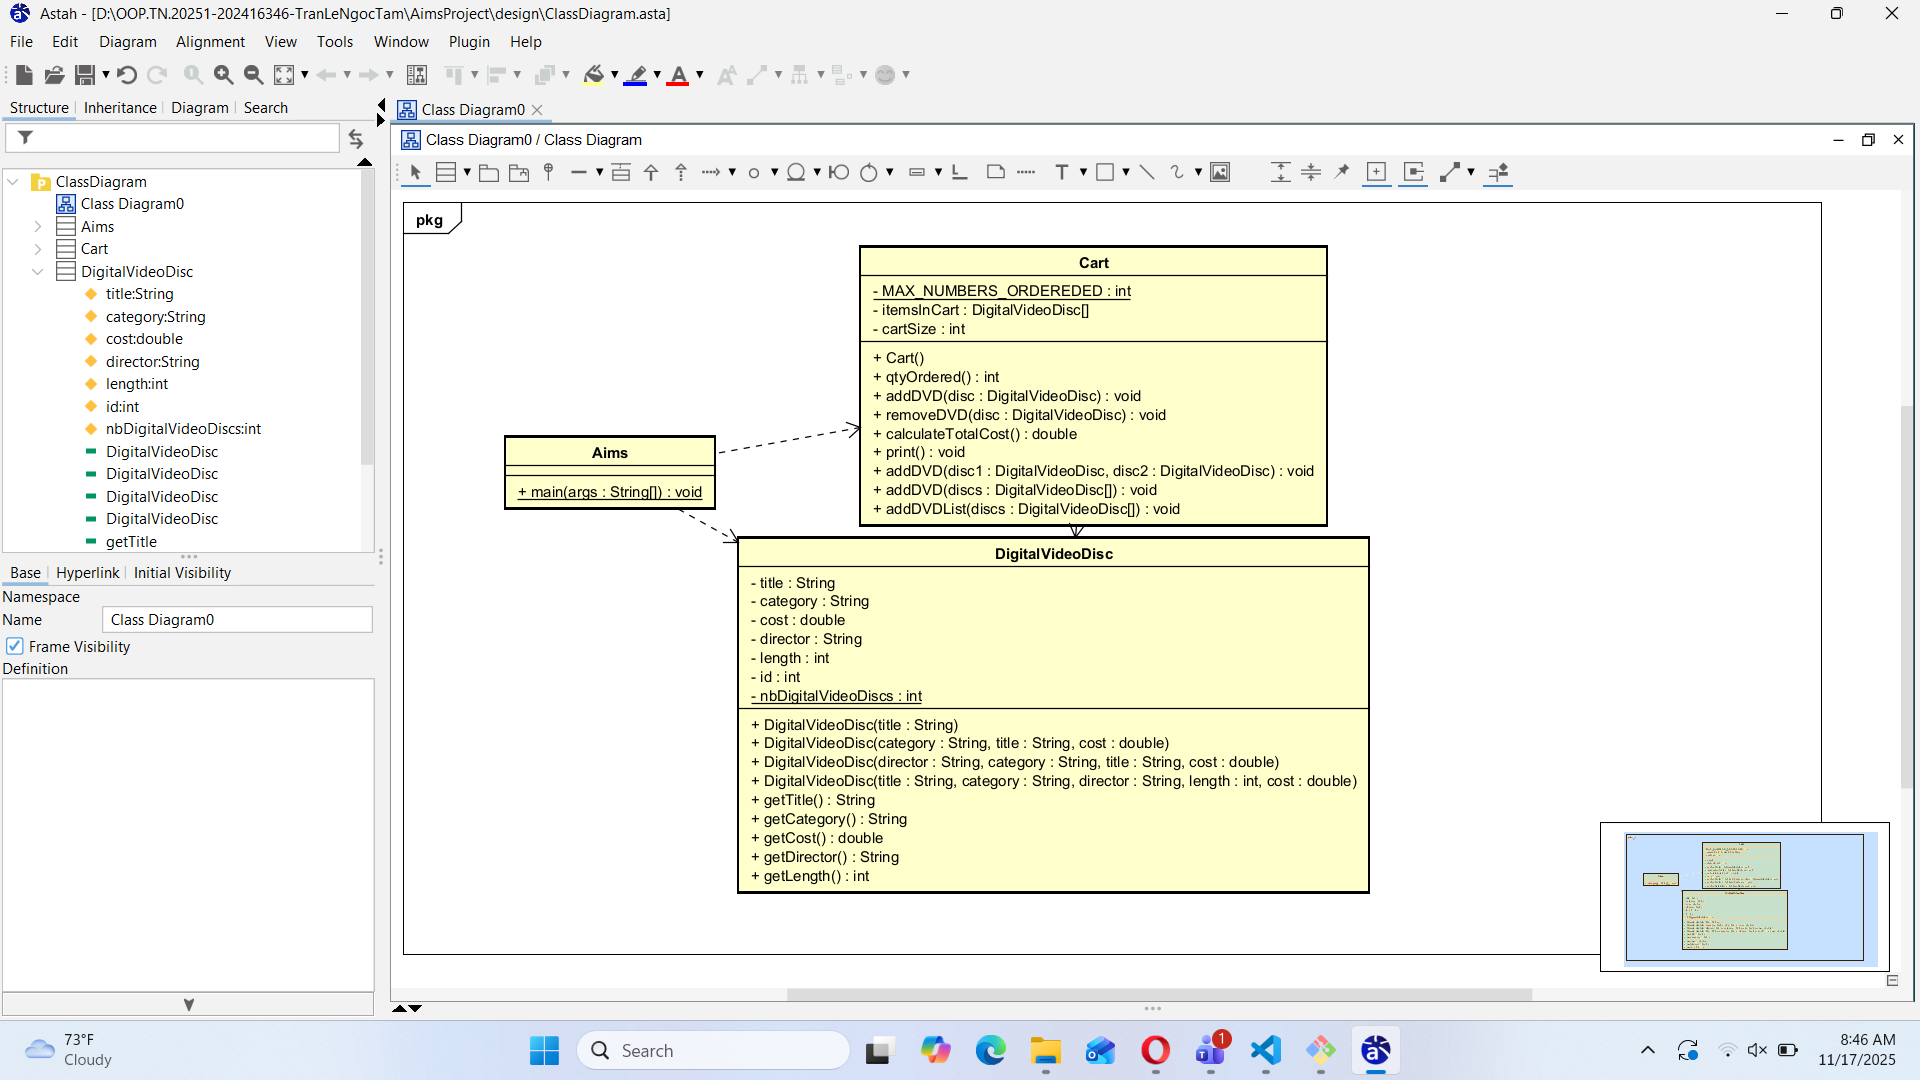
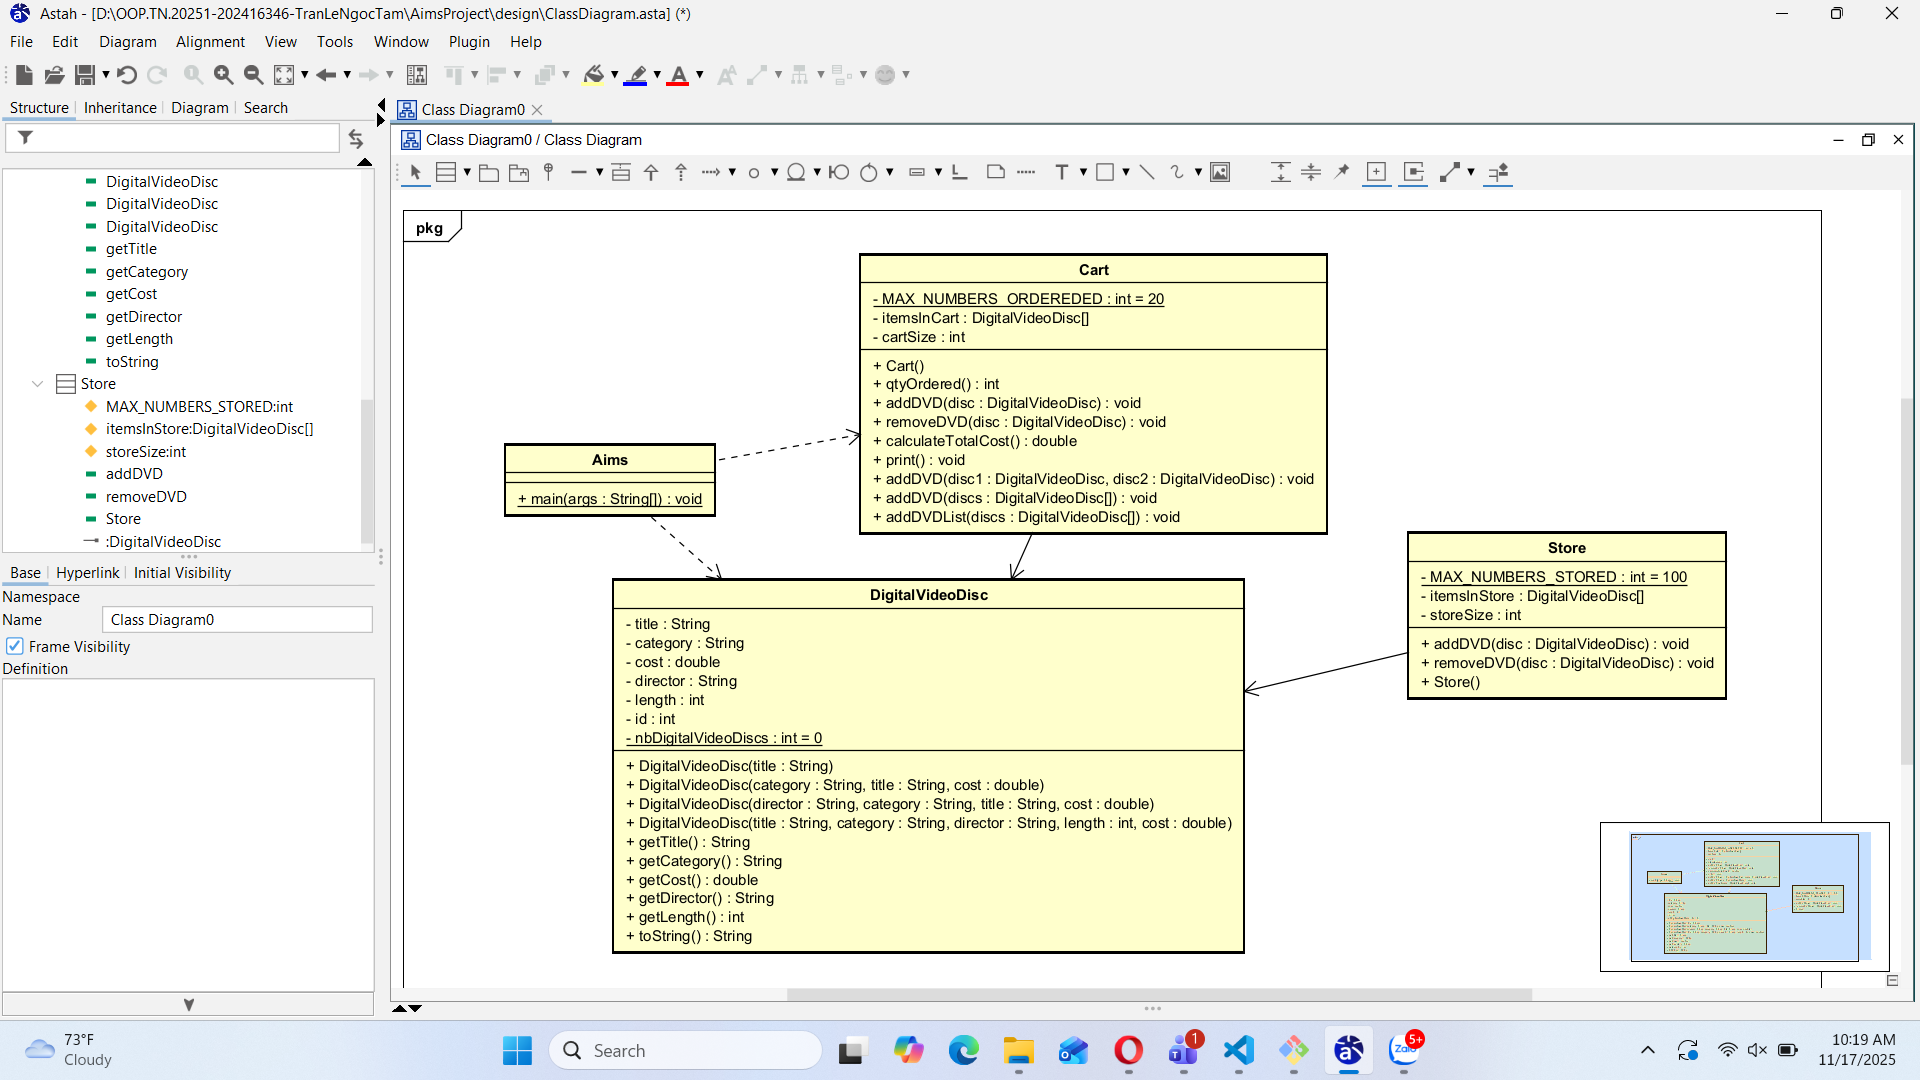
Add store and StoreTest

diff --git a/AimsProject/src/com/hust/kstn/models/Store.java b/AimsProject/src/com/hust/kstn/models/Store.java
@@ -1,0 +1,41 @@
+package com.hust.kstn.models;
+
+public class Store {
+    private static final int MAX_NUMBERS_STORED = 100;
+    DigitalVideoDisc itemsInStore[] = new DigitalVideoDisc[MAX_NUMBERS_STORED]; 
+    private int storeSize;
+    public Store() {
+        storeSize = 0;
+    }
+
+    public void addDVD(DigitalVideoDisc disc) {
+        if (storeSize == MAX_NUMBERS_STORED) {
+            System.out.println("The store is almost full");
+            return;
+        } 
+
+        itemsInStore[storeSize++] = disc;
+        System.out.println("The disc has been added successfully");
+    }
+
+    public void removeDVD(DigitalVideoDisc disc) {
+        if (storeSize == 0) {
+            System.out.println("The store is empty");
+            return;
+        }
+
+        DigitalVideoDisc[] newArray = new DigitalVideoDisc[MAX_NUMBERS_STORED];
+        int cnt = 0;
+        for (int i = 0; i < storeSize; i++) {
+            if (itemsInStore[i] == disc) {
+                continue;
+            }
+
+            newArray[cnt++] = itemsInStore[i];
+        }
+
+        storeSize = cnt;
+        itemsInStore = newArray;
+        System.out.println("The disc has been removed successfully");
+    }
+}

diff --git a/AimsProject/src/com/hust/kstn/test/StoreTest.java b/AimsProject/src/com/hust/kstn/test/StoreTest.java
@@ -1,0 +1,26 @@
+package com.hust.kstn.test;
+
+import com.hust.kstn.models.Store;
+import com.hust.kstn.models.DigitalVideoDisc;
+
+public class StoreTest {
+    public static void main(String[] args) {
+        Store store = new Store();
+        DigitalVideoDisc dvd1 = new DigitalVideoDisc("DoMixi funny moments", 
+        "Comedy", "DoMixi", 360, 36.36);
+        DigitalVideoDisc dvd2 = new DigitalVideoDisc("Anhtoi xin loi khan gia", 
+        "Tragedy", "Anhtoi", 63, 0.63);
+
+        store.addDVD(dvd1);
+        store.addDVD(dvd2);
+        store.removeDVD(dvd2);
+        store.removeDVD(dvd1);
+        store.removeDVD(dvd1);
+        for (int i = 0; i < 101; i++) {
+            String randomTitle = Integer.toString(i);
+            DigitalVideoDisc newDisc = new DigitalVideoDisc(randomTitle);
+            store.addDVD(newDisc);
+        }
+
+    }
+}
